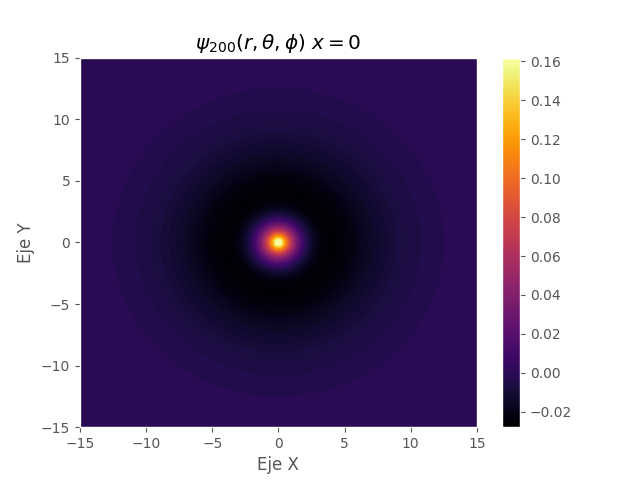
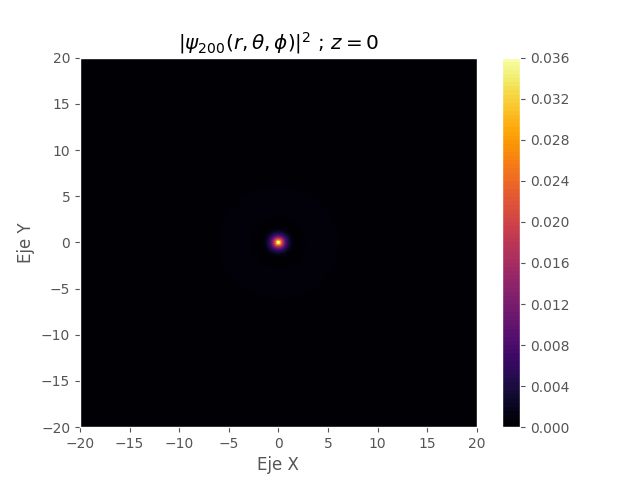
Se agrega corrige una gráfica

diff --git a/main_proyect/radial/hydrogen_atom/probability_density.py b/main_proyect/radial/hydrogen_atom/probability_density.py
@@ -8,9 +8,9 @@ from matplotlib.colors import LogNorm
 plt.style.use('ggplot')
 
 # Quantum numbers
-m = 1
-l = 2
-n = 4
+m = 0
+l = 0
+n = 2
 
 # Cargamos la función radial de schrodinger calculada
 #  para hacer una inteprolación 
